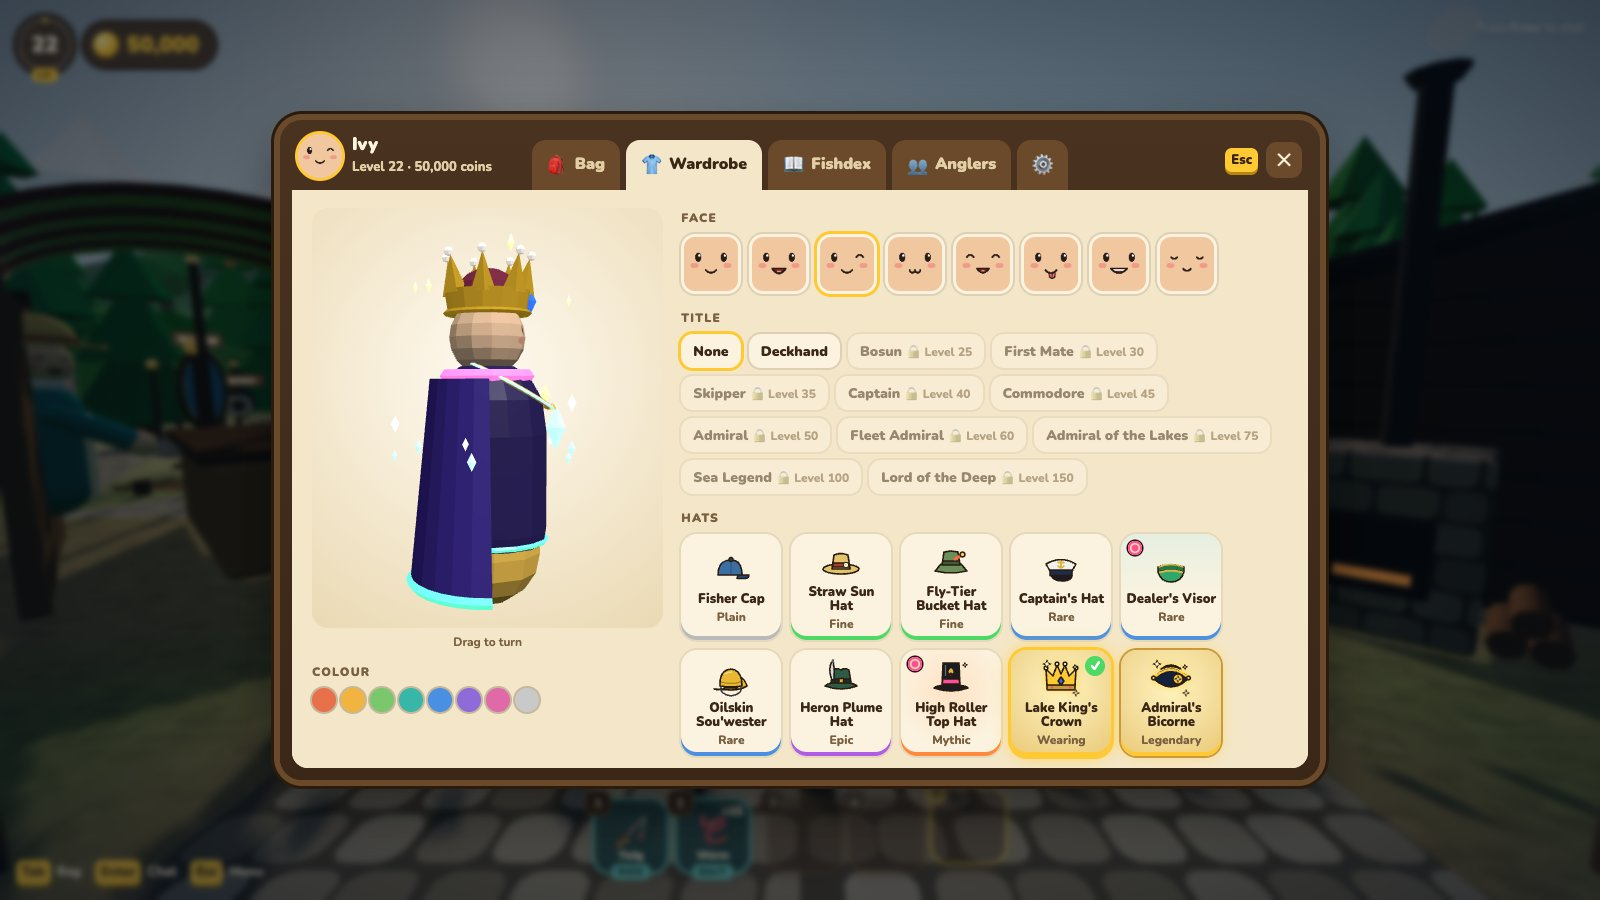
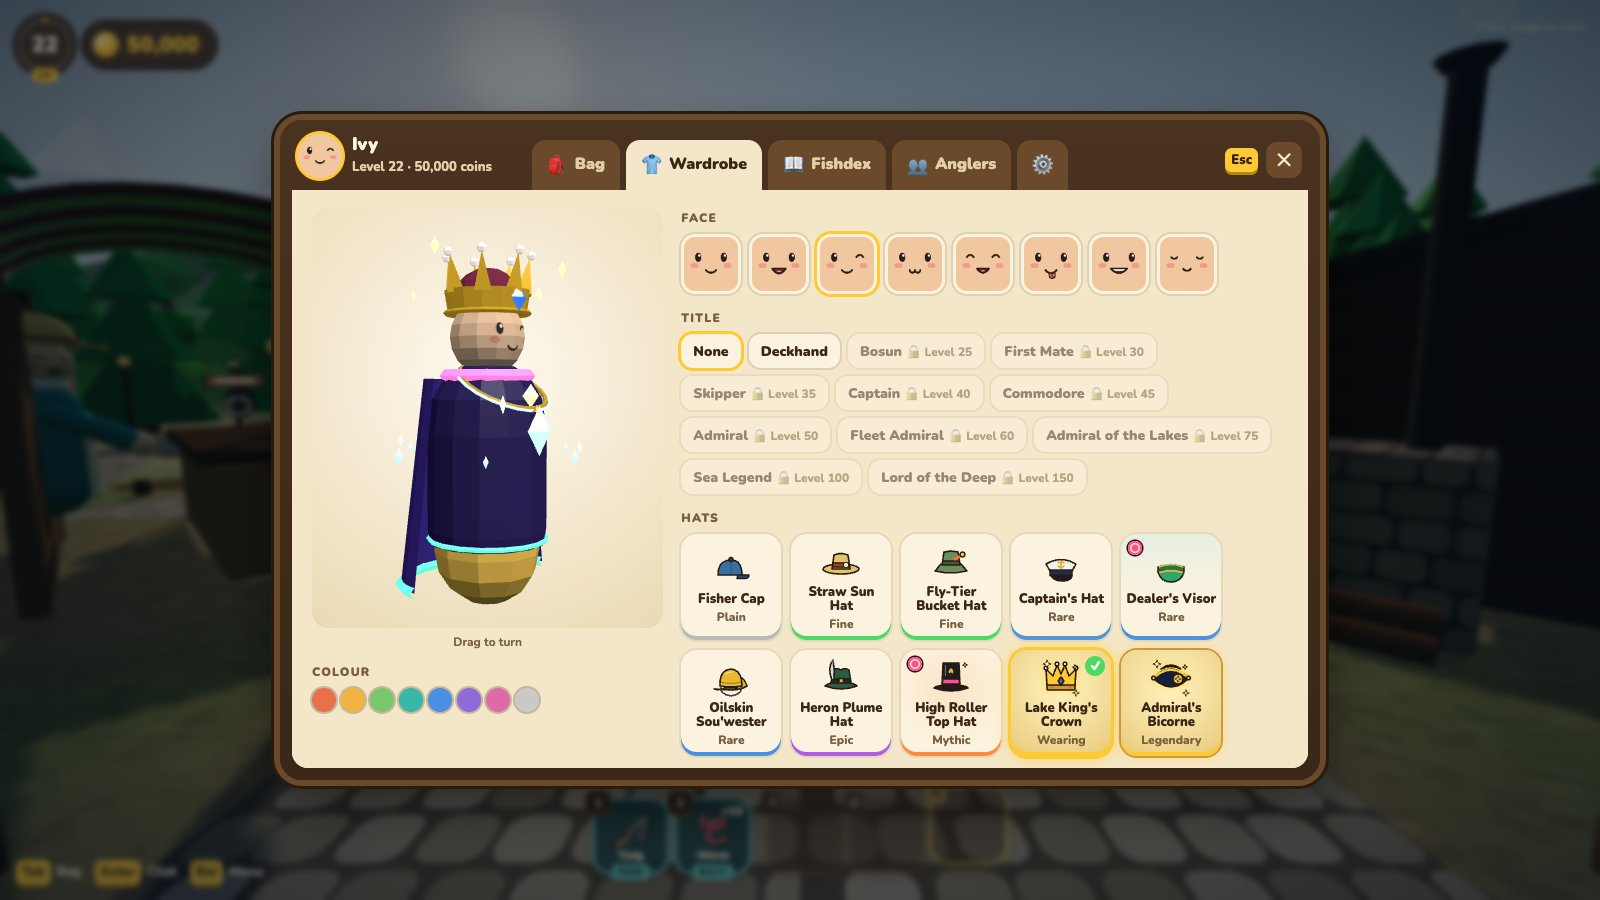
Three small fixes from a play test: the smoker beside the Smokehouse faces the way the shack does, with its firewood on the street side; the cottages' chimneys stand 1.4 m above the ridge with a darker cap, so the smoke has somewhere to come from; the character preview faces the viewer and sways 45°

diff --git a/src/game/character.ts b/src/game/character.ts
@@ -646,17 +646,21 @@ export class Character {
   }
 }
 
-/** Auto-spin speed (radians per second), and how long it waits after a drag before resuming. */
-const SPIN_SPEED = 0.7;
-const SPIN_RESUME_MS = 3000;
+/**
+ * The preview faces the viewer and sways this far to either side (radians), there and back once every
+ * `SWAY_PERIOD_MS`; after a drag it waits `SWAY_RESUME_MS`, then sways about where the drag left it.
+ */
+const SWAY = Math.PI / 4;
+const SWAY_PERIOD_MS = 7000;
+const SWAY_RESUME_MS = 3000;
 /** Radians of turn per pixel dragged. */
 const DRAG_TURN = 0.012;
 
 /**
- * One shared WebGL canvas showing a slowly spinning character; moved into whichever menu tab
- * needs it. Click and drag to turn it by hand.
+ * One shared WebGL canvas showing a character that faces the viewer and sways slowly from side to side; moved
+ * into whichever menu tab needs it. Click and drag to turn it by hand, right round to the back.
  */
-/** The box the preview keeps in view: hem to the tallest hat, and wide enough for a spinning cloak. */
+/** The box the preview keeps in view: hem to the tallest hat, and wide enough for a cloak at any turn. */
 const FRAME = { y: 1.2, h: 2.2, w: 1.4 };
 
 export class CharacterPreview {
@@ -666,8 +670,11 @@ export class CharacterPreview {
   private cam = new THREE.PerspectiveCamera(32, 0.8, 0.1, 20);
   private char: Character;
   private raf = 0;
-  private spin = 0.6;
-  private drag: { x: number; spin: number } | null = null;
+  /** The turn it sways about: 0 faces the viewer, a drag moves it. */
+  private turn = 0;
+  /** Milliseconds into the sway; it starts over after a drag, from the middle, so the model never jumps. */
+  private swayMs = 0;
+  private drag: { x: number; turn: number } | null = null;
   private idleAt = 0;
 
   constructor(look: Look) {
@@ -685,16 +692,19 @@ export class CharacterPreview {
     this.canvas.addEventListener('pointerdown', (e) => {
       if (e.button !== 0) return;
       this.canvas.setPointerCapture(e.pointerId);
-      this.drag = { x: e.clientX, spin: this.spin };
+      // Pick the model up at the turn it is showing, mid-sway.
+      this.turn = this.char.group.rotation.y;
+      this.swayMs = 0;
+      this.drag = { x: e.clientX, turn: this.turn };
       this.canvas.classList.add('dragging');
     });
     this.canvas.addEventListener('pointermove', (e) => {
-      if (this.drag) this.spin = this.drag.spin + (e.clientX - this.drag.x) * DRAG_TURN;
+      if (this.drag) this.turn = this.drag.turn + (e.clientX - this.drag.x) * DRAG_TURN;
     });
     const end = () => {
       if (!this.drag) return;
       this.drag = null;
-      this.idleAt = performance.now() + SPIN_RESUME_MS;
+      this.idleAt = performance.now() + SWAY_RESUME_MS;
       this.canvas.classList.remove('dragging');
     };
     this.canvas.addEventListener('pointerup', end);
@@ -721,19 +731,22 @@ export class CharacterPreview {
   start(): void {
     if (this.raf) return;
     this.fit();
+    // Each time it is shown, it starts facing the viewer.
+    this.turn = 0;
+    this.swayMs = 0;
     let last = performance.now();
     const loop = (t: number) => {
       this.raf = requestAnimationFrame(loop);
-      if (!this.drag && t >= this.idleAt) this.spin += ((t - last) / 1000) * SPIN_SPEED;
+      if (!this.drag && t >= this.idleAt) this.swayMs += t - last;
       last = t;
-      this.char.group.rotation.y = this.spin;
+      this.char.group.rotation.y = this.turn + SWAY * Math.sin((this.swayMs / SWAY_PERIOD_MS) * Math.PI * 2);
       this.char.tick(t / 1000);
       this.renderer.render(this.scene, this.cam);
     };
     this.raf = requestAnimationFrame(loop);
   }
 
-  /** Stops spinning and shrinks the drawing buffer, so a hidden preview holds almost no GPU memory. */
+  /** Stops drawing and shrinks the drawing buffer, so a hidden preview holds almost no GPU memory. */
   stop(): void {
     if (!this.raf) return;
     cancelAnimationFrame(this.raf);

diff --git a/src/game/town.ts b/src/game/town.ts
@@ -19,6 +19,8 @@ const rnd = (seed: number) => () => {
 /** Seamless-ish cobblestone texture, drawn once. */
 /** How far the cobbles lie above the ground. */
 const COBBLE_LIFT = 0.04;
+/** How far a cottage's chimney top stands above its eaves; the ridge is 1.5 above them. Play-test: the height. */
+const CHIMNEY_TOP = 2.9;
 
 function cobbleTexture(): THREE.CanvasTexture {
   const c = document.createElement('canvas');
@@ -333,18 +335,21 @@ export class Town {
     glowTag(lamp, 0.7);
     this.lamps.push(lamp.material as THREE.MeshLambertMaterial);
     g.add(lamp);
-    // Chimney
-    const chim = rbox(0.55, 1.6, 0.55, 0x8d6e63, 0.03);
+    // Chimney: on the back slope, and tall enough to stand well clear of the ridge (`CHIMNEY_TOP` above the
+    // eaves), so it shows from the street in front and the smoke has somewhere to come from. A darker cap on top.
+    const chim = rbox(0.55, CHIMNEY_TOP - 0.2, 0.55, 0x8d6e63, 0.03);
     boxUV(chim.geometry, 1.6);
     chim.material = this.painted(0xa08478, stoneTexture());
-    chim.position.set(-1.4, H + 1.0, -0.6);
-    g.add(chim);
+    chim.position.set(-1.4, H + 0.2 + (CHIMNEY_TOP - 0.2) / 2, -0.6);
+    const pot = rbox(0.7, 0.14, 0.7, 0x6f5a52, 0.03);
+    pot.position.set(-1.4, H + CHIMNEY_TOP, -0.6);
+    g.add(chim, pot);
     this.at(g, h.x, h.z, h.facing);
     const sin = Math.sin(h.facing);
     const cos = Math.cos(h.facing);
     const wx = h.x + -1.4 * cos + -0.6 * sin;
     const wz = h.z - -1.4 * sin + -0.6 * cos;
-    const wy = groundHeight(h.x, h.z) + H + 1.9;
+    const wy = groundHeight(h.x, h.z) + H + CHIMNEY_TOP + 0.2;
     for (let k = 0; k < 4; k++) {
       const m = new THREE.Mesh(new THREE.SphereGeometry(0.28, 8, 6), new THREE.MeshBasicMaterial({ color: 0xdadada, transparent: true, opacity: 0.5, depthWrite: false }));
       this.group.add(m);
@@ -565,7 +570,8 @@ export class Town {
     sign.mesh.rotation.x = -0.12;
     g.add(sign.mesh);
     // The stone smoker stands beside the shack on its street side, where players see it, its iron door and
-    // glowing coals turned to the street, and a tall pipe so the smoke rises beside the roof.
+    // glowing coals facing the way the shack does, firewood stacked on its street side, and a tall pipe so the
+    // smoke rises beside the roof.
     const SX = W / 2 + 0.8;
     const SZ = -0.6;
     const sm = new THREE.Group();
@@ -590,18 +596,17 @@ export class Town {
       sm.add(log);
     }
     sm.position.set(SX, 0, SZ);
-    sm.rotation.y = Math.PI / 2;
     g.add(sm);
     this.at(g, sh.x, sh.z, sh.facing);
     const sin = Math.sin(sh.facing);
     const cos = Math.cos(sh.facing);
     const world = (lx: number, lz: number) => ({ x: sh.x + lx * cos + lz * sin, z: sh.z - lx * sin + lz * cos });
-    for (const [lx, lz, r] of [[-1, 0, 0.5], [0, 0, 0.5], [1, 0, 0.5], [-1.2, BACK, 0.5], [0, BACK, 0.5], [1.2, BACK, 0.5], [-1, BACK - 0.38, 0.5], [-W / 2, -1, 0.6], [W / 2, -1, 0.6], [SX, SZ, 0.75]] as const) {
+    for (const [lx, lz, r] of [[-1, 0, 0.5], [0, 0, 0.5], [1, 0, 0.5], [-1.2, BACK, 0.5], [0, BACK, 0.5], [1.2, BACK, 0.5], [-1, BACK - 0.38, 0.5], [-W / 2, -1, 0.6], [W / 2, -1, 0.6], [SX, SZ, 0.75], [SX + 0.7, SZ, 0.3]] as const) {
       const c = world(lx, lz);
       this.solid(c.x, c.z, r);
     }
-    // The pipe sits 0.15 behind the smoker's middle; the smoker is turned a quarter, so that's along local x.
-    const top2 = world(SX - 0.15, SZ);
+    // The pipe sits 0.15 behind the smoker's middle.
+    const top2 = world(SX, SZ - 0.15);
     const base = new THREE.Vector3(top2.x, groundHeight(sh.x, sh.z) + 3.75, top2.z);
     for (let n = 0; n < 4; n++) {
       const m = new THREE.Mesh(new THREE.SphereGeometry(0.22, 8, 6), new THREE.MeshBasicMaterial({ color: 0xcfcfcf, transparent: true, opacity: 0.5, depthWrite: false }));

diff --git a/scripts/smoke.ts b/scripts/smoke.ts
@@ -346,8 +346,12 @@ async function pondChecks(): Promise<void> {
   await sleep(200);
   await page.screenshot({ path: `${SHOTS}/wardrobe-faces.png` });
   const worn = await page.evaluate(() => (window.__game.s as any).look.face as string);
-  // Dragging the preview turns the character, and the auto-spin waits instead of fighting it.
-  const spinNow = () => page.evaluate(() => (window.__game.preview() as any).spin as number);
+  // Dragging the preview turns the character, and its sway waits instead of fighting it. Read a frame later, as
+  // the turn is applied when the preview draws.
+  const spinNow = () => page.evaluate(async () => {
+    await new Promise((r) => requestAnimationFrame(r));
+    return (window.__game.preview() as any).char.group.rotation.y as number;
+  });
   const box = (await (await page.$('#pv-slot canvas'))!.boundingBox())!;
   const s0 = await spinNow();
   await page.mouse.move(box.x + box.width / 2, box.y + box.height / 2);

diff --git a/src/game/game.ts b/src/game/game.ts
@@ -1546,7 +1546,7 @@ export class Game {
     tip.style.top = `${y}px`;
   }
 
-  /** Hovering an item in the shop or wardrobe previews it on the spinning character. */
+  /** Hovering an item in the shop or wardrobe previews it on the preview character. */
   private tryOn(el: HTMLElement, on: boolean): void {
     const card = el.closest<HTMLElement>('[data-try]');
     if (!card || !this.preview) return;

diff --git a/DONE.md b/DONE.md
@@ -2,6 +2,13 @@
 
 Finished TODO items, newest first, with what was decided and how each was checked. Add new ones at the top.
 
+- [x] Three small fixes from a play test: the smoker's turn, taller chimneys, the wardrobe preview sways (Oscar, 2026-11-13; done 2026-11-13, branch `quay-east-clear`)
+  - The stone smoker beside the Smokehouse faced the street; its iron door and coals now face the way the shack does, with its firewood on the street side (a small collider added for the stack) and the pipe's smoke moved with it (`buildSmokehouse`, `src/game/town.ts`)
+  - The cottages' chimneys stood 0.3 m above the ridge on the back slope, so from the street the houses seemed to smoke from the roof. They now stand 1.4 m above the ridge with a darker cap, and the smoke starts at the new top (`CHIMNEY_TOP`)
+  - The character preview (wardrobe, shop) turned a full circle. It now faces the viewer and sways 45° to either side, there and back every 7 s (`SWAY`, `SWAY_PERIOD_MS`, `src/game/character.ts`). Dragging still turns it right round; after a drag it waits 3 s, then sways about where the drag left it, and it faces the viewer again each time the menu opens. The smoke check on dragging reads the shown turn. README wardrobe photo re-taken
+  - Checked: the build, 592 tests and smoke 113/113 (run with the paths, the entry above); headless views of the street, the square and the stalls, and the wardrobe photo
+  - Play-test: the chimneys' height; the sway's width and pace, and whether it should swing back to the front by itself after a drag
+
 - [x] Clear walkways on the quay: the east end's barrel and crate removed, the lamp posts and string-light posts moved off the boards and the quay road (Oscar, 2026-11-13; done 2026-11-13, branch `quay-east-clear`)
   - Oscar, in two asks: the barrels and boxes before the campfire area with the boards were blocking the path, so remove them; many of the light poles on the dock stand in the middle of the boardwalk and interrupt movement, so move them to the water's edge or a better spot
   - Removed: the barrel at (12.6, 12.4) and the crate at (12.1, 11.7), which stood solid on the cobbles where the campfire ramp leaves the quay's east end. The two barrels and the crate by Marlow's stall stay
